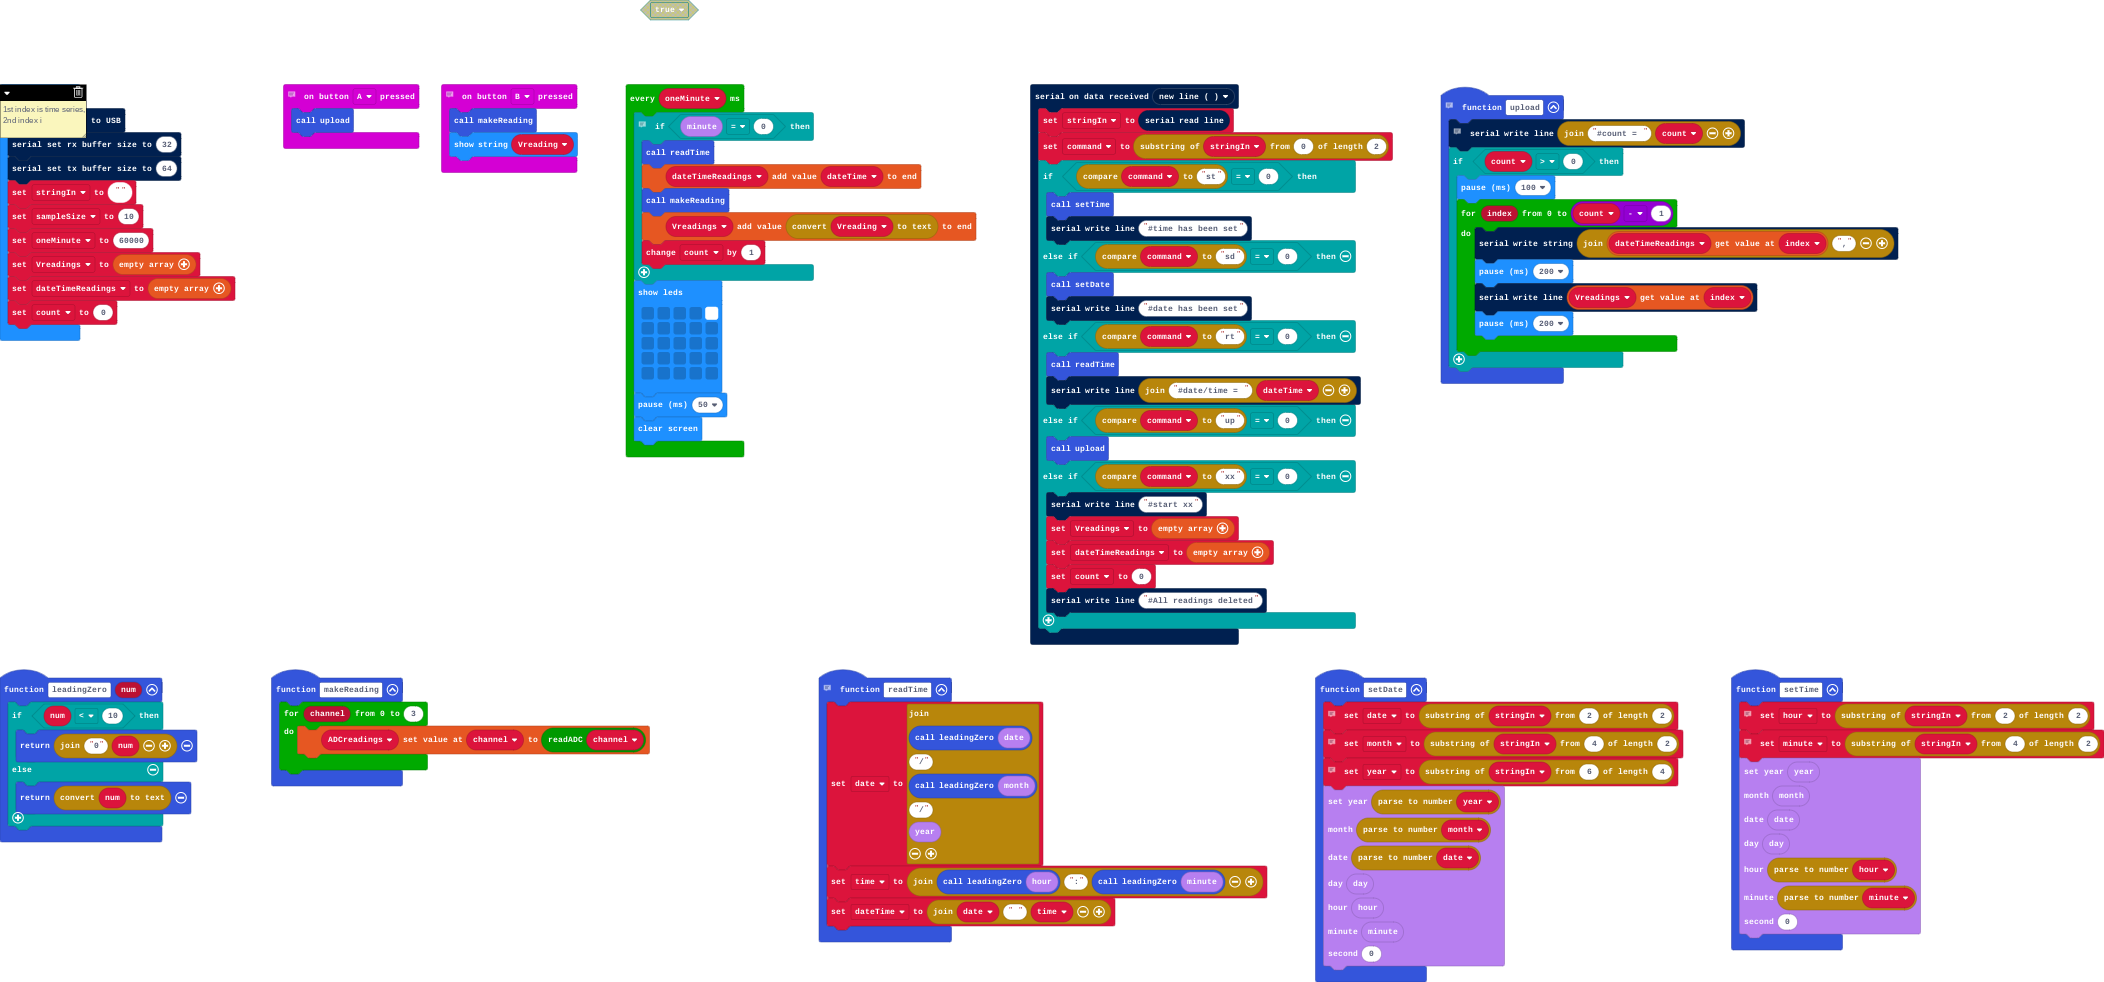
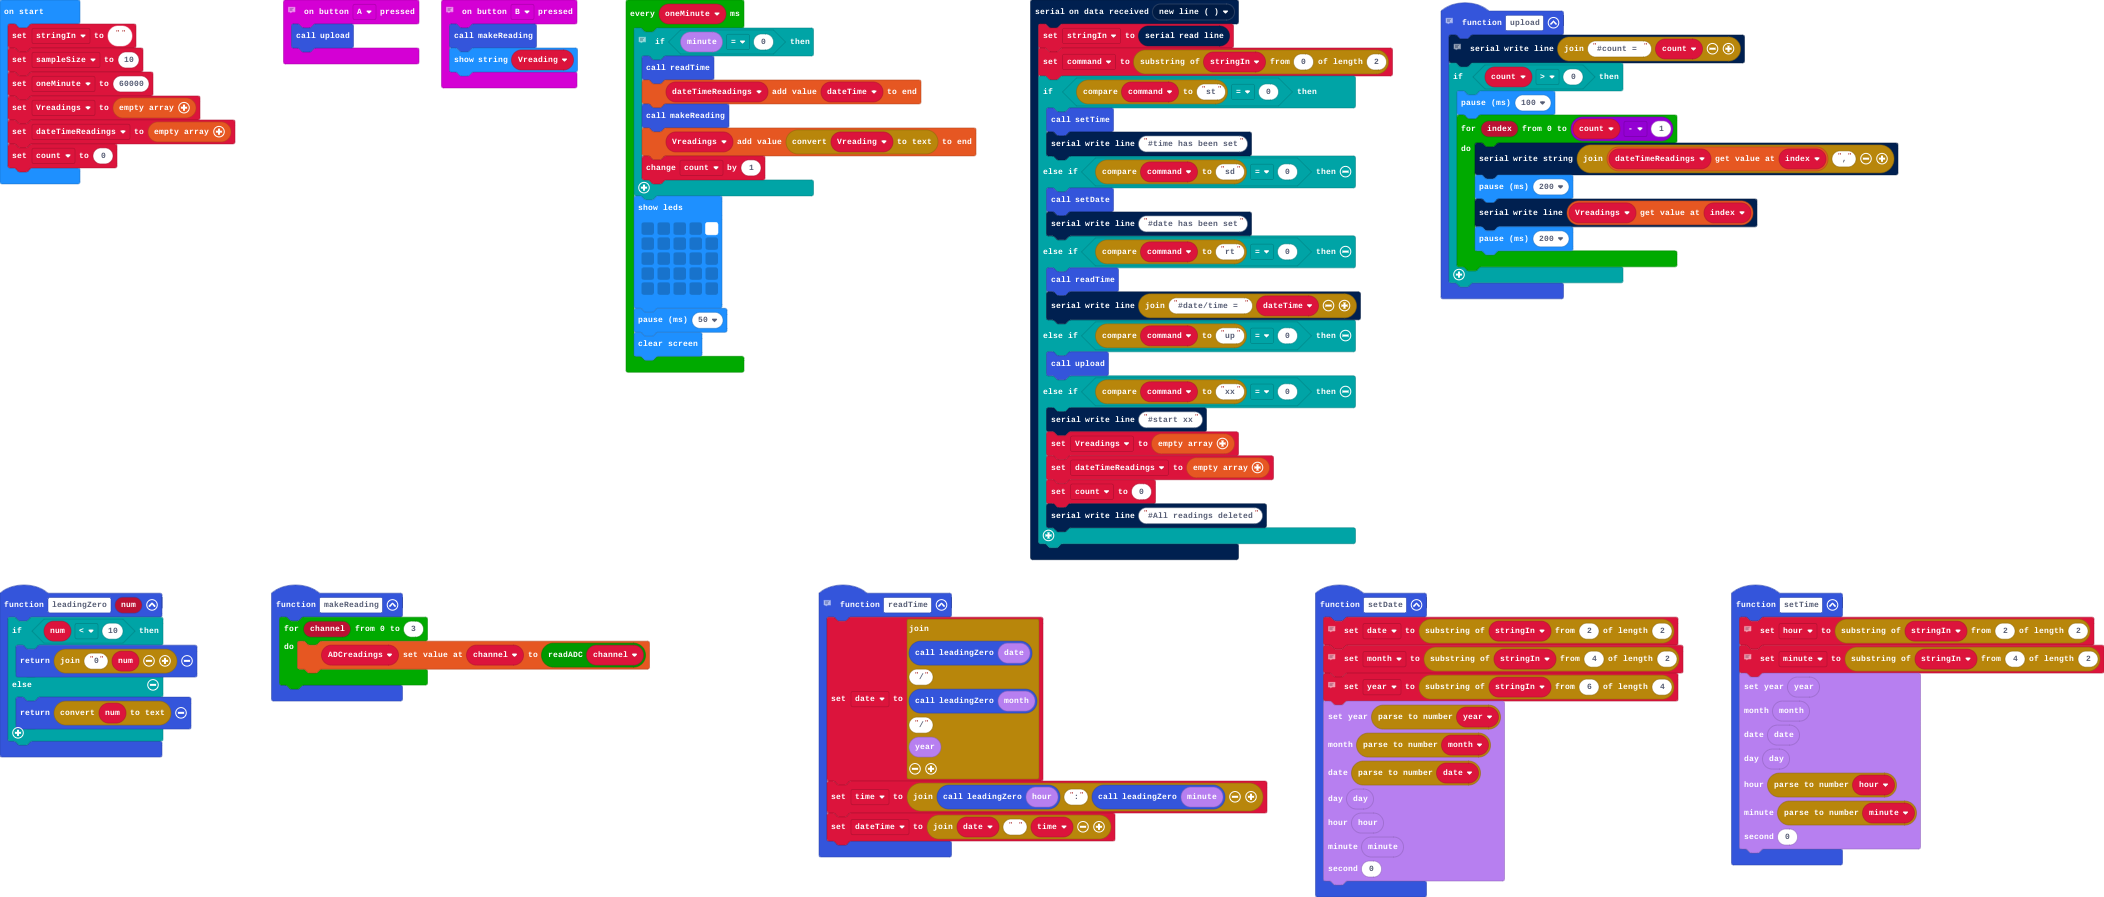
Update main.blocks, main.ts

diff --git a/main.ts b/main.ts
@@ -121,9 +121,6 @@ let count = 0
 let dateTimeReadings: string[] = []
 let Vreadings: string[] = []
 let stringIn = ""
-serial.redirectToUSB()
-serial.setRxBufferSize(32)
-serial.setTxBufferSize(64)
 stringIn = ""
 let sampleSize = 10
 let oneMinute = 60000
